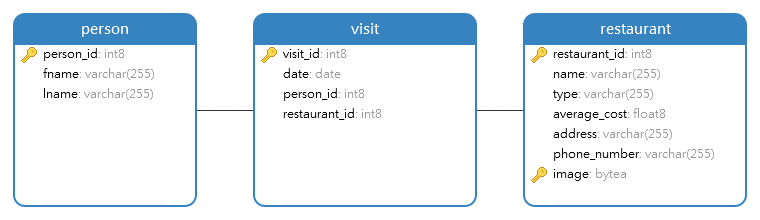
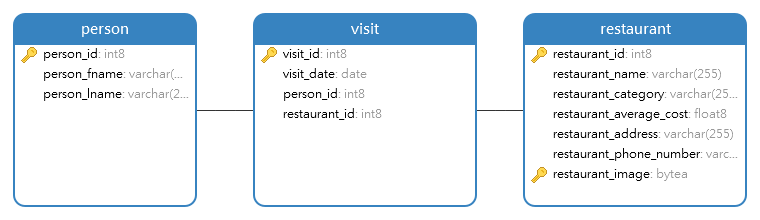
Added get restaurants by name/category

diff --git a/src/main/java/cme/restaurantbackend/model/Restaurant.java b/src/main/java/cme/restaurantbackend/model/Restaurant.java
@@ -12,7 +12,7 @@ public class Restaurant {
 
     private Long id;
     private String name;
-    private String type;
+    private String category;
     private double averageCost;
     private String address;
     private String phoneNumber;
@@ -23,10 +23,10 @@ public class Restaurant {
 
     }
 
-    public Restaurant(Long id, String name, String type, double averageCost, String address, String phoneNumber, byte[] image) {
+    public Restaurant(Long id, String name, String category, double averageCost, String address, String phoneNumber, byte[] image) {
         this.id = id;
         this.name = name;
-        this.type = type;
+        this.category = category;
         this.averageCost = averageCost;
         this.address = address;
         this.phoneNumber = phoneNumber;
@@ -45,7 +45,7 @@ public class Restaurant {
         this.id = id;
     }
 
-    @Column(name = "name", nullable = false)
+    @Column(name = "restaurant_name", nullable = false)
     public String getName() {
         return name;
     }
@@ -54,16 +54,16 @@ public class Restaurant {
         this.name = name;
     }
 
-    @Column(name = "type", nullable = false)
-    public String getType() {
-        return type;
+    @Column(name = "restaurant_category", nullable = false)
+    public String getCategory() {
+        return category;
     }
 
-    public void setType(String type) {
-        this.type = type;
+    public void setCategory(String category) {
+        this.category = category;
     }
 
-    @Column(name = "average_cost", nullable = false)
+    @Column(name = "restaurant_average_cost", nullable = false)
     public double getAverageCost() {
         return averageCost;
     }
@@ -72,7 +72,7 @@ public class Restaurant {
         this.averageCost = averageCost;
     }
 
-    @Column(name = "address", nullable = false)
+    @Column(name = "restaurant_address", nullable = false)
     public String getAddress() {
         return address;
     }
@@ -81,7 +81,7 @@ public class Restaurant {
         this.address = address;
     }
 
-    @Column(name = "phone_number", nullable = false)
+    @Column(name = "restaurant_phone_number", nullable = false)
     public String getPhoneNumber() {
         return phoneNumber;
     }
@@ -91,7 +91,7 @@ public class Restaurant {
     }
 
     @Lob
-    @Column(name = "image", nullable = true)
+    @Column(name = "restaurant_image", nullable = true)
     public byte[] getImage() {
         return image;
     }

diff --git a/src/test/java/cme/restaurantbackend/Tests/RestaurantTest.java b/src/test/java/cme/restaurantbackend/Tests/RestaurantTest.java
@@ -1,7 +1,6 @@
 package cme.restaurantbackend.Tests;
 
 import cme.restaurantbackend.RestaurantBackendApplication;
-import cme.restaurantbackend.model.Person;
 import cme.restaurantbackend.model.Restaurant;
 import org.junit.jupiter.api.Test;
 import org.junit.runner.RunWith;
@@ -50,6 +49,24 @@ public class RestaurantTest {
     }
 
     @Test
+    public void testGetRestaurantsByName() {
+        HttpHeaders headers = new HttpHeaders();
+        HttpEntity<String> entity = new HttpEntity<String>(null, headers);
+        ResponseEntity<String> response = restTemplate.exchange(getRootUrl() + "/restaurantsByName/KFC",
+                HttpMethod.GET, entity, String.class);
+        assertNotNull(response.getBody());
+    }
+
+    @Test
+    public void testGetRestaurantsByCategory() {
+        HttpHeaders headers = new HttpHeaders();
+        HttpEntity<String> entity = new HttpEntity<String>(null, headers);
+        ResponseEntity<String> response = restTemplate.exchange(getRootUrl() + "/restaurantsByCategory/American",
+                HttpMethod.GET, entity, String.class);
+        assertNotNull(response.getBody());
+    }
+
+    @Test
     public void testGetRestaurantById() {
         Restaurant restaurant = restTemplate.getForObject(getRootUrl() + "/restaurant/1", Restaurant.class);
         System.out.println(restaurant.getName());
@@ -60,7 +77,7 @@ public class RestaurantTest {
     public void testCreateRestaurant() throws IOException {
         Restaurant restaurant = new Restaurant();
         restaurant.setName("KFC");
-        restaurant.setType("American");
+        restaurant.setCategory("American");
         restaurant.setAverageCost(15);
         restaurant.setAddress("Beirut");
         restaurant.setImage(imageToByteArray("images/kfc_image.jpg"));
@@ -74,7 +91,7 @@ public class RestaurantTest {
         int id = 1;
         Restaurant restaurant = restTemplate.getForObject(getRootUrl() + "/restaurant/" + id, Restaurant.class);
         restaurant.setName("KFC");
-        restaurant.setType("American");
+        restaurant.setCategory("American");
         restaurant.setAverageCost(20);
         restaurant.setAddress("Beirut");
         restaurant.setImage(imageToByteArray("images/kfc_image.jpg"));

diff --git a/src/main/java/cme/restaurantbackend/controller/RestaurantController.java b/src/main/java/cme/restaurantbackend/controller/RestaurantController.java
@@ -12,6 +12,7 @@ import java.util.HashMap;
 import java.util.List;
 import java.util.Map;
 
+@CrossOrigin(origins = "*")
 @RestController
 @RequestMapping("/api/v1")
 public class RestaurantController {
@@ -22,6 +23,16 @@ public class RestaurantController {
     @GetMapping("/restaurant")
     public List<Restaurant> getAllRestaurants() {
         return restaurantRepository.findAll();
+    }
+
+    @GetMapping("/restaurantsByName/{restaurant_name}")
+    public List<Restaurant> getRestaurantsByName(@PathVariable(value = "restaurant_name") String restaurantName) {
+        return restaurantRepository.findByName(restaurantName);
+    }
+
+    @GetMapping("/restaurantsByCategory/{restaurant_category}")
+    public List<Restaurant> getRestaurantsByCategory(@PathVariable(value = "restaurant_category") String restaurantCategory) {
+        return restaurantRepository.findByCategory(restaurantCategory);
     }
 
     @GetMapping("/restaurant/{id}")
@@ -44,7 +55,7 @@ public class RestaurantController {
                 .orElseThrow(() -> new ResourceNotFoundException("Restaurant not found for this id :: " + RestaurantID));
 
         restaurant.setName(restaurantDetails.getName());
-        restaurant.setType(restaurantDetails.getType());
+        restaurant.setCategory(restaurantDetails.getCategory());
         restaurant.setAverageCost(restaurantDetails.getAverageCost());
         restaurant.setAddress(restaurantDetails.getAddress());
         restaurant.setPhoneNumber(restaurantDetails.getPhoneNumber());

diff --git a/src/main/java/cme/restaurantbackend/repository/RestaurantRepository.java b/src/main/java/cme/restaurantbackend/repository/RestaurantRepository.java
@@ -2,9 +2,18 @@ package cme.restaurantbackend.repository;
 
 import cme.restaurantbackend.model.Restaurant;
 import org.springframework.data.jpa.repository.JpaRepository;
+import org.springframework.data.jpa.repository.Query;
+import org.springframework.data.repository.query.Param;
 import org.springframework.stereotype.Repository;
+
+import java.util.List;
 
 @Repository
 public interface RestaurantRepository extends JpaRepository<Restaurant, Long> {
 
+    @Query(value = "SELECT * FROM restaurant WHERE restaurant_name like %:restaurantName%", nativeQuery = true)
+    List<Restaurant> findByName(@Param("restaurantName") String restaurantName);
+
+    @Query(value = "SELECT * FROM restaurant WHERE restaurant_category like %:restaurantCategory%", nativeQuery = true)
+    List<Restaurant> findByCategory(@Param("restaurantCategory") String restaurantCategory);
 }

diff --git a/src/main/java/cme/restaurantbackend/model/Person.java b/src/main/java/cme/restaurantbackend/model/Person.java
@@ -37,7 +37,7 @@ public class Person {
         this.id = id;
     }
 
-    @Column(name = "fname", nullable = false)
+    @Column(name = "person_fname", nullable = false)
     public String getFirstName() {
         return firstName;
     }
@@ -46,7 +46,7 @@ public class Person {
         this.firstName = firstName;
     }
 
-    @Column(name = "lname", nullable = false)
+    @Column(name = "person_lname", nullable = false)
     public String getLastName() {
         return lastName;
     }

diff --git a/src/main/java/cme/restaurantbackend/controller/VisitController.java b/src/main/java/cme/restaurantbackend/controller/VisitController.java
@@ -20,6 +20,7 @@ import java.util.HashMap;
 import java.util.List;
 import java.util.Map;
 
+@CrossOrigin(origins = "*")
 @RestController
 @RequestMapping("/api/v1")
 public class VisitController {
@@ -30,7 +31,6 @@ public class VisitController {
     private PersonRepository personRepository;
     @Autowired
     private RestaurantRepository restaurantRepository;
-
 
     @GetMapping("/visit")
     public List<Visit> getAllVisits() {

diff --git a/src/main/java/cme/restaurantbackend/controller/PersonController.java b/src/main/java/cme/restaurantbackend/controller/PersonController.java
@@ -12,6 +12,7 @@ import java.util.HashMap;
 import java.util.List;
 import java.util.Map;
 
+@CrossOrigin(origins = "*")
 @RestController
 @RequestMapping("/api/v1")
 public class PersonController {

diff --git a/src/main/java/cme/restaurantbackend/model/Visit.java b/src/main/java/cme/restaurantbackend/model/Visit.java
@@ -57,6 +57,7 @@ public class Visit {
         this.restaurant = restaurant;
     }
 
+    @Column(name = "visit_date", nullable = false)
     public Date getDate() {
         return date;
     }
